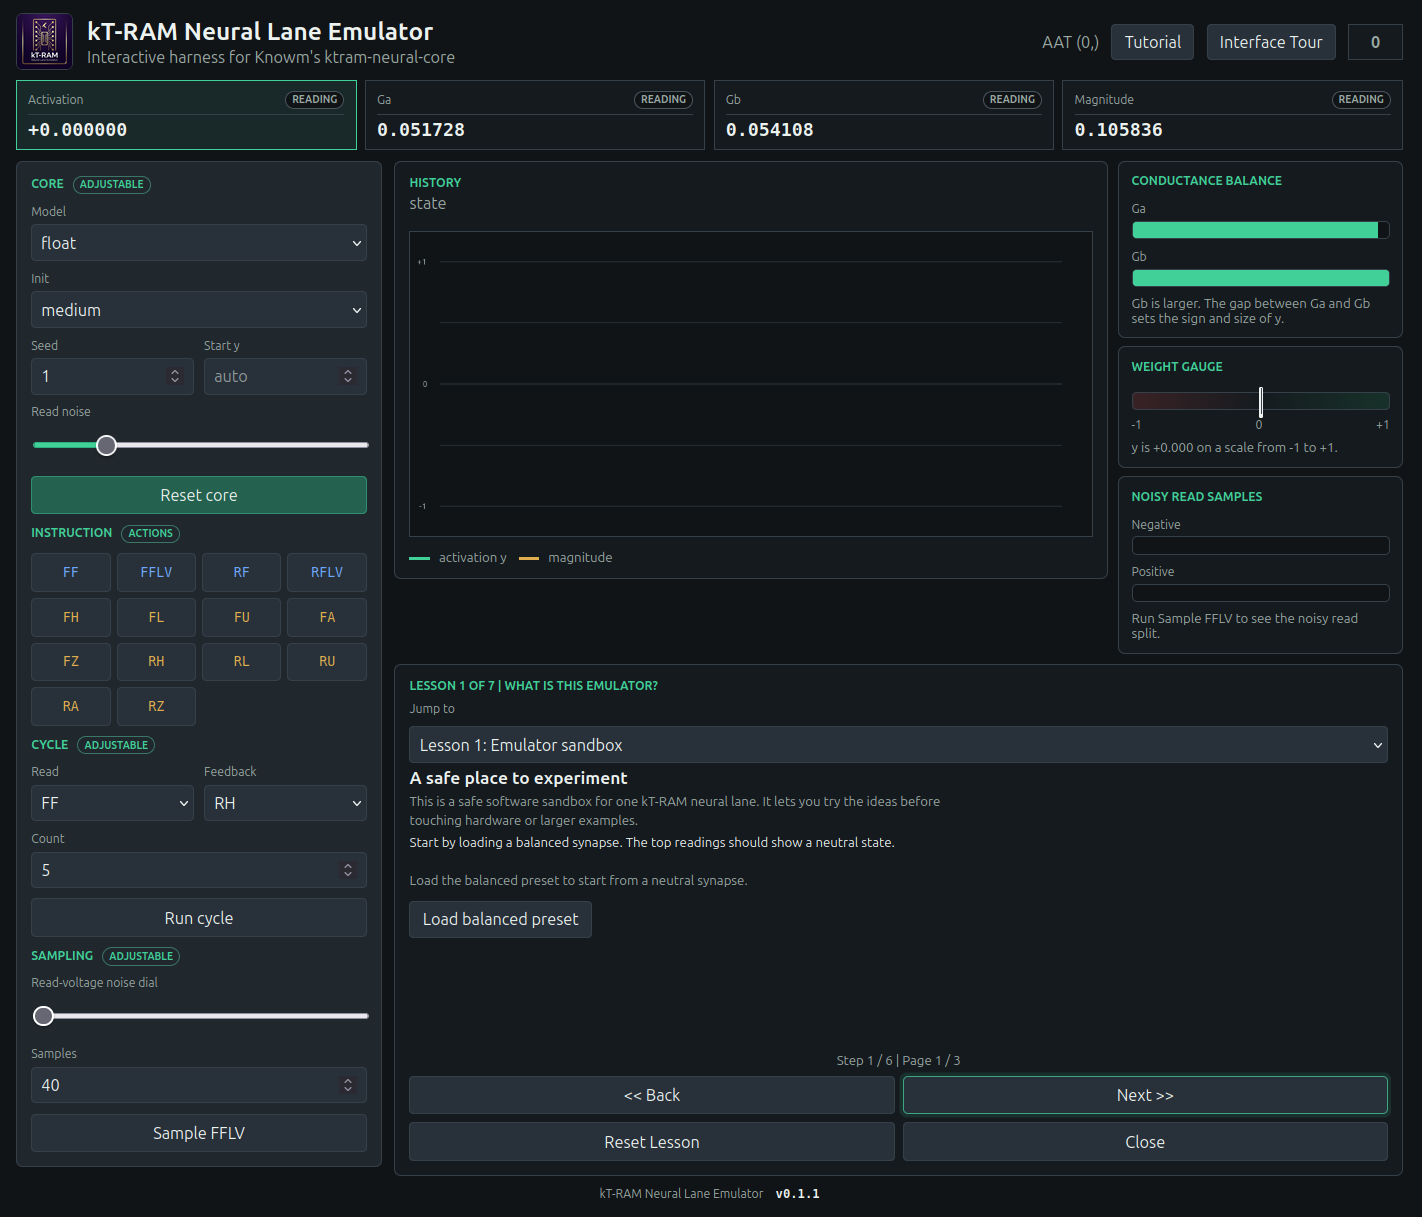
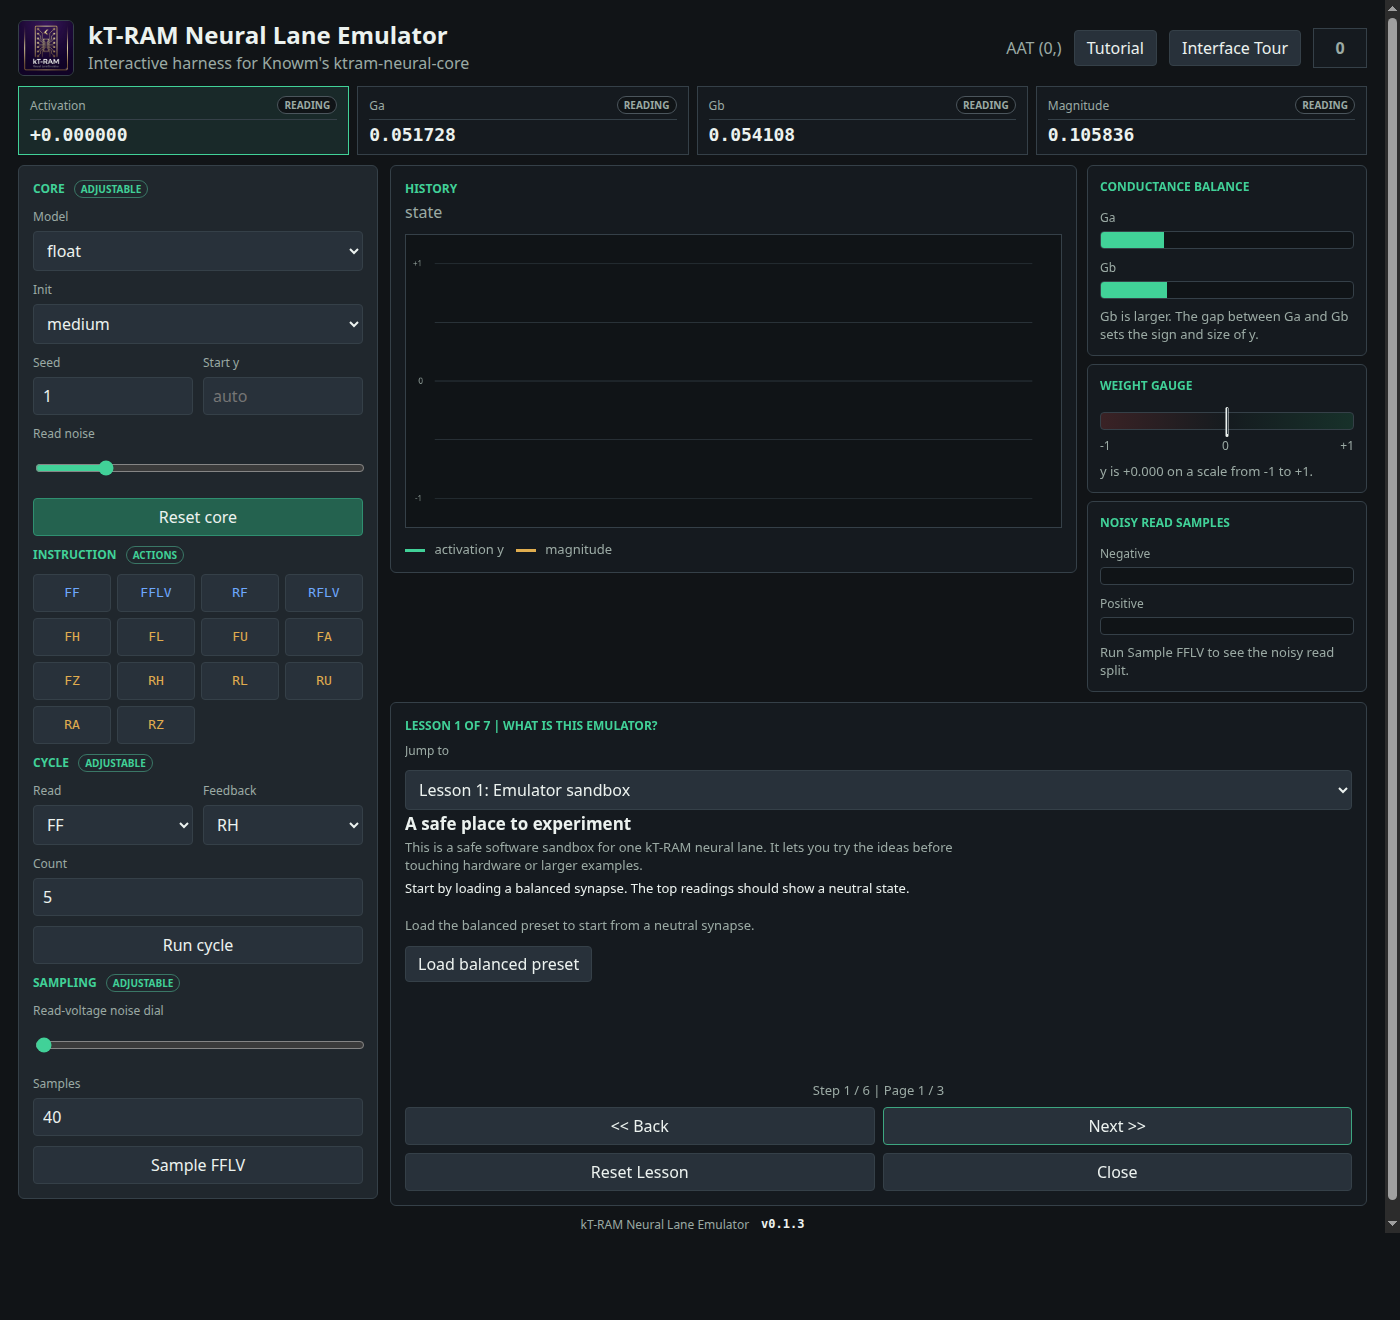
Open tutorial by default

diff --git a/web/index.html b/web/index.html
@@ -198,7 +198,7 @@
             </article>
           </section>
 
-          <section id="tutorial-panel" class="panel tutorial-panel" hidden>
+          <section id="tutorial-panel" class="panel tutorial-panel">
             <div class="tutorial-main">
               <div class="tutorial-head">
                 <div class="section-title" id="tutorial-kicker">Tutorial</div>

diff --git a/web/app.js b/web/app.js
@@ -1654,4 +1654,5 @@ window.addEventListener("keydown", (event) => {
 
 wireInstructions();
 wireTutorialJump();
+showTutorialPanel();
 getState().then(render);